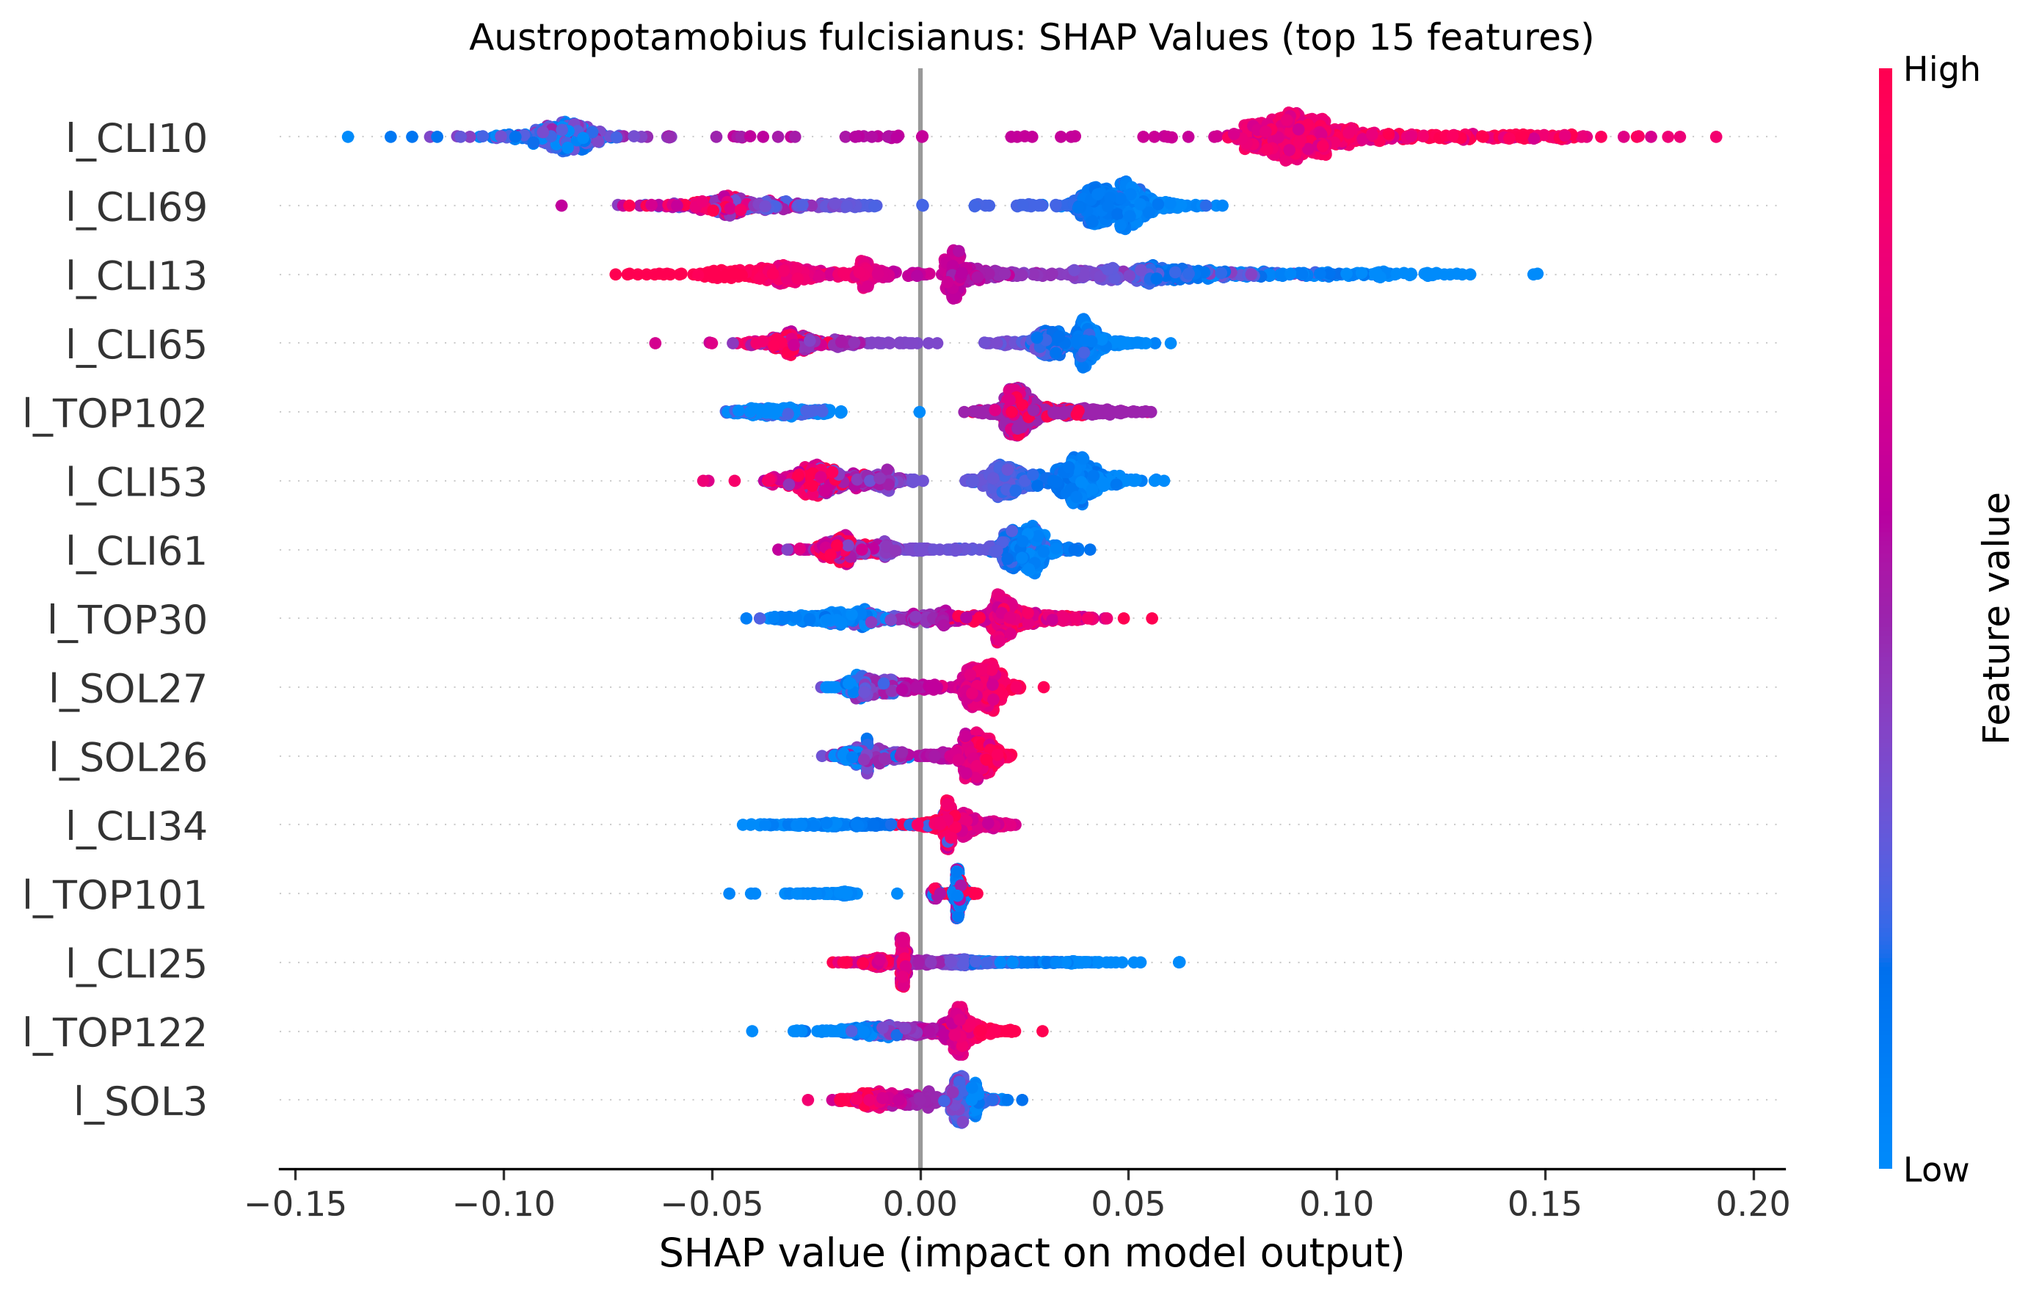
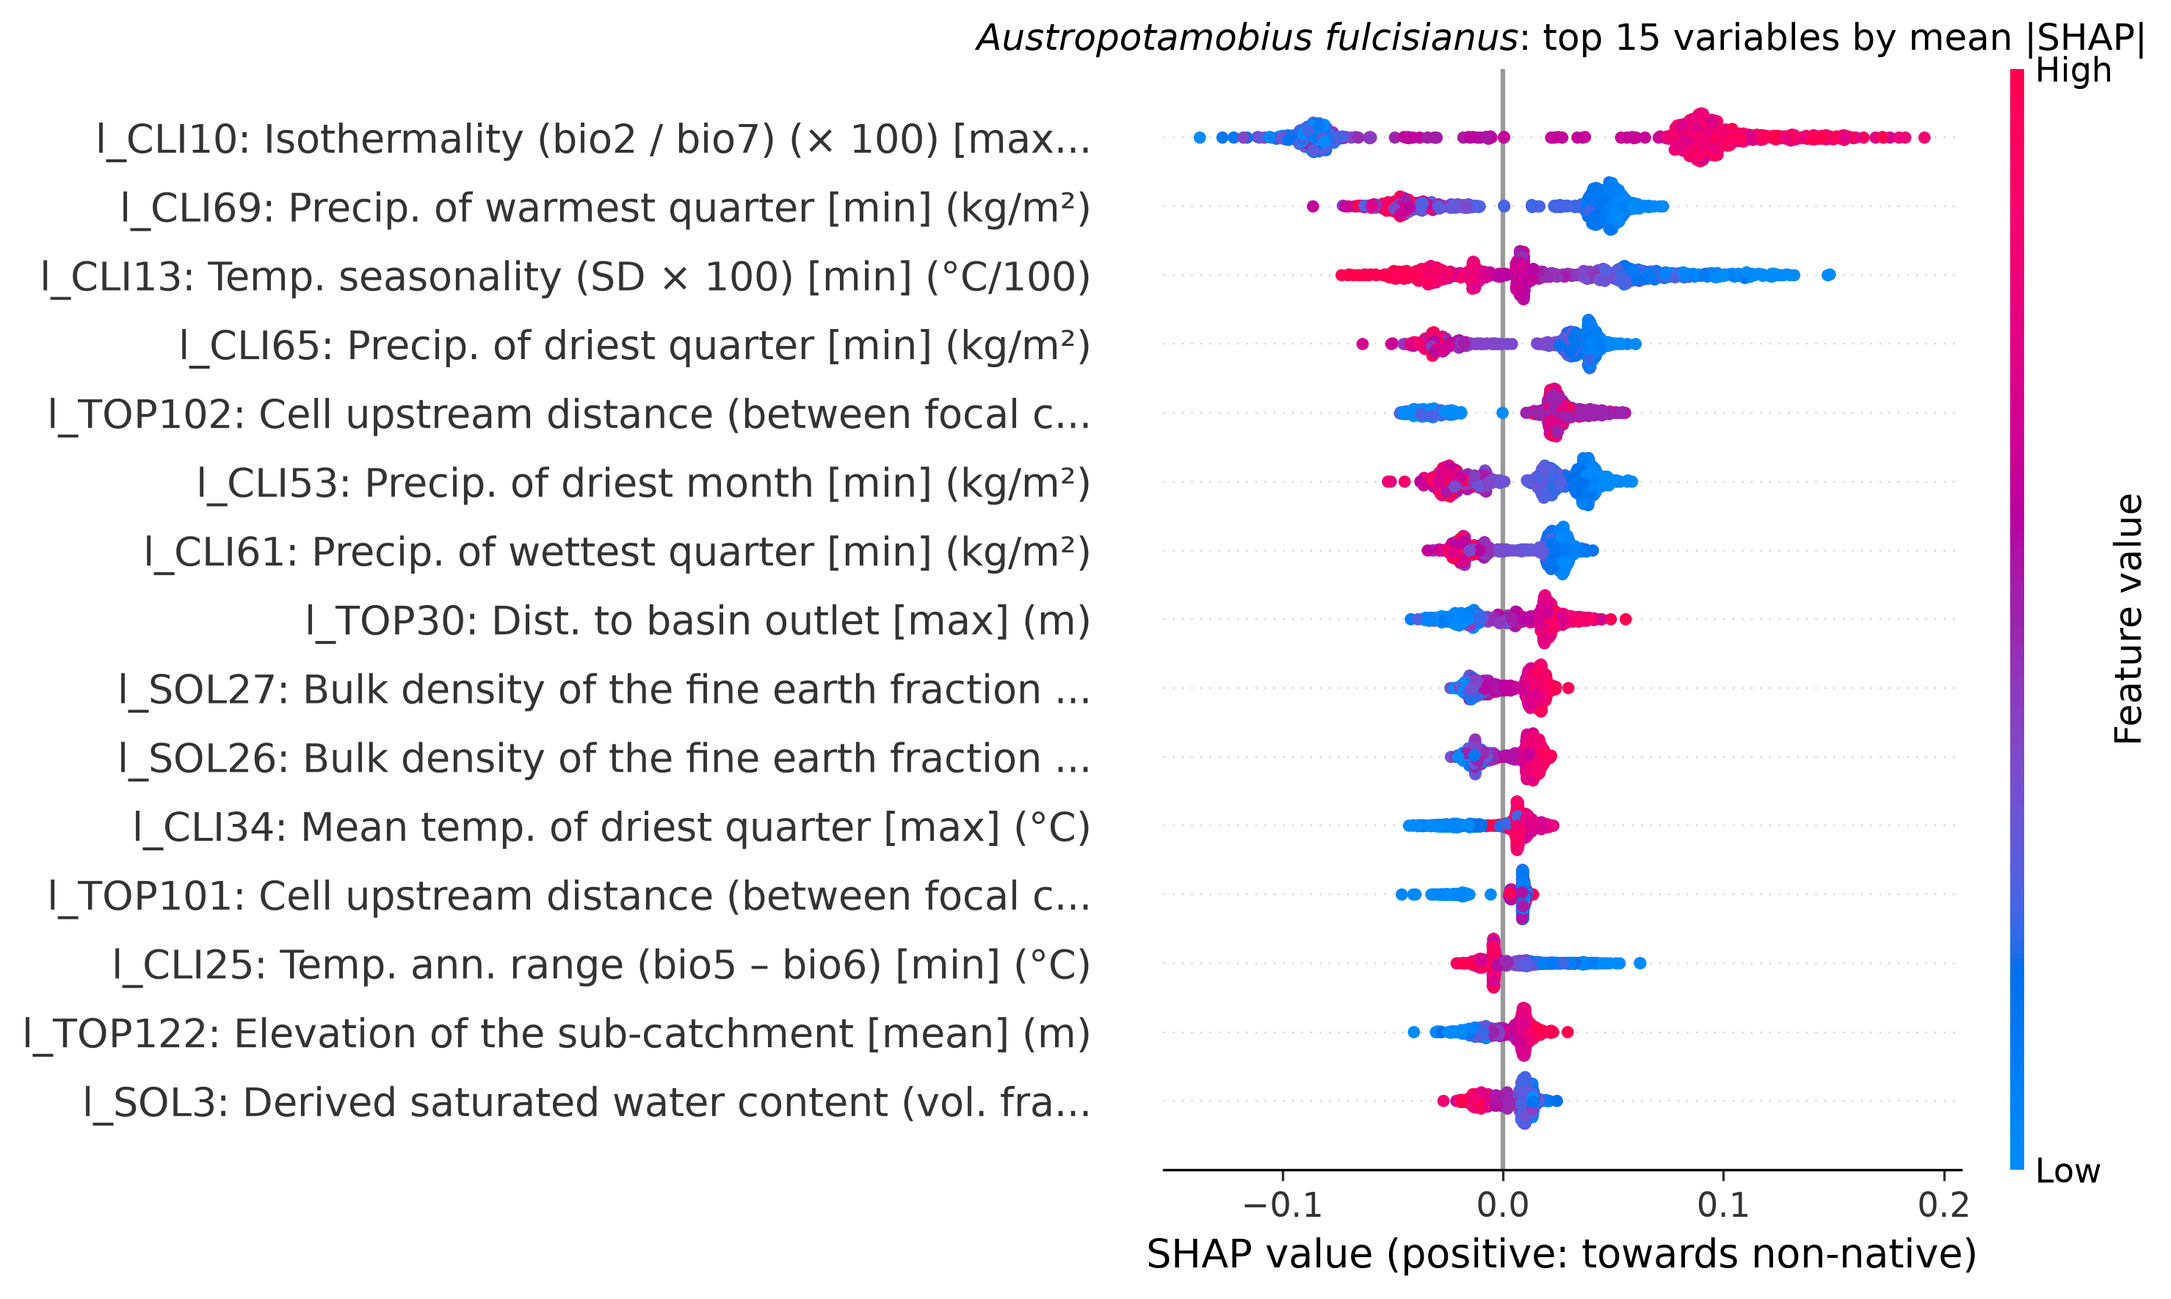
Supplement files for the revised Paper 2: Tables S1-S2, Figures S3-S5
- Table S1 (r1_TableS1.csv): per species the 20 variables with the largest
  random-forest SHAP importance, with SHAP, RF Gini and decision-tree Gini
  shares and ranks, followed by the other decision-tree variables
- Table S2 (r1_TableS2.csv): fold stability of domain-level RF Gini
  importance, mean and SD over the five stratified folds
- Figure S3: SHAP summary plots label each variable with its description and
  give the sign of the SHAP axis (towards non-native)
- Figure S4: decision-tree importance heatmap, rows with importance >= 0.005,
  domain as a colour strip, in the palette of Figure 2
- Figure S5: fold stability by domain, one PNG per species and a 3-panel
  version, in the palette of Figure 2
- The ecospat supplementary figures are renamed to the final numbering
  (S6 all variables, S7 null distributions); the README maps every table and
  figure of the revised manuscript to its file

Claude-Session: https://claude.ai/code/session_01VqvwAeGhpT3225sp3HgGFu

diff --git a/conservation/src/r1_figures.py b/conservation/src/r1_figures.py
@@ -6,6 +6,11 @@ r1_figures.py — R1 figures (items 16-18 of the revision list), 300 dpi PNG.
           permutation importance (loss of balanced accuracy when a whole domain is
           shuffled; filled = stratified CV, open = 100 km spatial blocks)
   Fig S2  top 20 decision-tree variables per species, bars coloured by domain
+  Fig S4  decision-tree Gini importance across species (heatmap; top 15 variables per
+          species with importance >= 0.005), domain shown as a colour strip
+  Fig S5  cross-validation stability of domain-level random-forest Gini importance:
+          mean +/- SD over the 5 stratified folds, one PNG per species and a 3-panel
+          version (inputs: results/tables/cv_stability/*_type_summary.csv)
 
 Domain colours are a colour-vision-deficiency-safe set (validated adjacent and all
 pairs; red/blue/green semantics of the submitted figures kept, soil moved from brown
@@ -26,6 +31,7 @@ matplotlib.use("Agg")
 import matplotlib.pyplot as plt
 import numpy as np
 import pandas as pd
+from matplotlib.colors import PowerNorm
 from matplotlib.patches import Patch
 
 from r1_common import DOMAINS, FIGURES, SHORT, SPECIES, TABLES, domain_of, domain_shares, ensure_dirs
@@ -155,7 +161,95 @@ def figS2():
     return out
 
 
+def figS4(n_top=15, min_imp=0.005):
+    glossary = load_glossary("data/raw/S2.xlsx")
+    imp = {sp: pd.read_csv(RES / f"{safe(sp)}_feature_importances.csv").set_index("variable").importance
+           for sp in SPECIES}
+    rows = set()
+    for sp, s in imp.items():
+        rows.update(s[s >= min_imp].sort_values(ascending=False).head(n_top).index)
+    m = pd.DataFrame({sp: [float(imp[sp].get(v, 0.0)) for v in rows] for sp in SPECIES}, index=list(rows))
+    m = m.loc[m.max(axis=1).sort_values(ascending=False).index]
+    fig = plt.figure(figsize=(7.6, 0.24 * len(m) + 1.2))
+    gs = fig.add_gridspec(1, 3, width_ratios=[0.035, 1, 0.05], wspace=0.04, bottom=0.07, top=0.93)
+    ax_strip, ax, cax = fig.add_subplot(gs[0]), fig.add_subplot(gs[1]), fig.add_subplot(gs[2])
+    for i, v in enumerate(m.index):
+        ax_strip.add_patch(plt.Rectangle((0, i - 0.5), 1, 1, color=DOMAIN_COLORS[domain_of(v)], linewidth=0))
+    ax_strip.set_xlim(0, 1); ax_strip.set_ylim(len(m) - 0.5, -0.5)
+    ax_strip.set_xticks([]); ax_strip.set_yticks(range(len(m)))
+    ax_strip.set_yticklabels([make_label(v, glossary, max_len=52) for v in m.index], fontsize=6.5, color=INK)
+    for s in ax_strip.spines.values():
+        s.set_visible(False)
+    ax_strip.tick_params(axis="y", length=0)
+    im = ax.imshow(m.values, cmap="Greys", norm=PowerNorm(0.5, vmin=0, vmax=1), aspect="auto")
+    for i in range(len(m)):
+        for j in range(len(SPECIES)):
+            val = m.values[i, j]
+            if val >= 0.005:
+                ax.text(j, i, f"{val:.2f}", ha="center", va="center", fontsize=6.5,
+                        color="white" if val > 0.25 else INK)
+    ax.set_xticks(range(len(SPECIES)))
+    ax.set_xticklabels([f"$\\it{{{SHORT[sp].split()[0]}}}$ $\\it{{{SHORT[sp].split()[1]}}}$" for sp in SPECIES])
+    ax.xaxis.tick_top()
+    ax.set_yticks([])
+    for s in ax.spines.values():
+        s.set_visible(False)
+    cb = fig.colorbar(im, cax=cax)
+    cb.set_label("Decision-tree Gini importance (square-root colour scale)")
+    handles = [Patch(facecolor=DOMAIN_COLORS[d], label=d) for d in DOMAINS]
+    fig.legend(handles=handles, loc="upper center", ncol=4, bbox_to_anchor=(0.55, 0.055), fontsize=7.5)
+    out = FIGURES / "FigS4_dt_importance_heatmap.png"
+    fig.savefig(out, dpi=300, bbox_inches="tight", facecolor="white")
+    plt.close(fig)
+    return out
+
+
+def figS5():
+    """Fold stability of domain-level RF Gini importance, one panel per species."""
+    data = {sp: pd.read_csv(RES / "cv_stability" / f"{safe(sp)}_type_summary.csv").set_index("type") for sp in SPECIES}
+    ymax = max(float((d.mean_pct + d.sd_pct).max()) for d in data.values())
+    ymax = 10 * np.ceil(ymax / 10 + 0.05)
+
+    def panel(ax, sp):
+        d = data[sp].reindex(DOMAINS)
+        x = np.arange(len(DOMAINS))
+        ax.bar(x, d.mean_pct, 0.62, color=[DOMAIN_COLORS[k] for k in DOMAINS], edgecolor="white", linewidth=0.8)
+        ax.errorbar(x, d.mean_pct, yerr=d.sd_pct, fmt="none", ecolor=INK, elinewidth=0.9, capsize=3)
+        for xi, (mu, sd) in enumerate(zip(d.mean_pct, d.sd_pct)):
+            ax.text(xi, mu + sd + ymax * 0.015, f"{mu:.1f} \u00b1 {sd:.1f}", ha="center", va="bottom", fontsize=7, color=INK2)
+        ax.set_xticks(x)
+        ax.set_xticklabels(DOMAINS)
+        ax.set_ylim(0, ymax)
+        ax.set_ylabel("Share of random-forest Gini importance (%)")
+        g, s = SHORT[sp].split()
+        ax.set_title(f"$\\it{{{g}}}$ $\\it{{{s}}}$", loc="left")
+        ax.yaxis.grid(True, color=GRID, linewidth=0.6); ax.set_axisbelow(True)
+
+    outs = []
+    for sp in SPECIES:
+        fig, ax = plt.subplots(figsize=(3.6, 3.0))
+        panel(ax, sp)
+        out = FIGURES / f"FigS5_type_stability_{safe(sp)}.png"
+        fig.savefig(out, dpi=300, bbox_inches="tight", facecolor="white")
+        plt.close(fig)
+        outs.append(out)
+    fig, axes = plt.subplots(1, 3, figsize=(10.5, 3.2), sharey=True)
+    for ax, sp in zip(axes, SPECIES):
+        panel(ax, sp)
+    for ax in axes[1:]:
+        ax.set_ylabel("")
+    fig.text(0.5, -0.04, "Mean \u00b1 SD over the five stratified cross-validation folds", ha="center", fontsize=7.5, color=INK2)
+    out = FIGURES / "FigS5_type_stability.png"
+    fig.savefig(out, dpi=300, bbox_inches="tight", facecolor="white")
+    plt.close(fig)
+    outs.append(out)
+    return outs
+
+
 if __name__ == "__main__":
     ensure_dirs()
     print(fig2())
     print(figS2())
+    print(figS4())
+    for o in figS5():
+        print(o)

diff --git a/conservation/src/r1_tables.py b/conservation/src/r1_tables.py
@@ -16,6 +16,13 @@ every number in Tables 2, 3 and S5 traces to one file.
                   tests (p for both alternatives), expansion, stability, unfilling
   r1_table_ecospat_sensitivity.csv  D, I and the dynamic indices for 50, 100 and 200 km
                   backgrounds and intersection 0.1 and 0
+  r1_TableS1.csv  per species, the 20 variables with the largest random-forest SHAP
+                  importance, with their SHAP, RF Gini and DT Gini importance (% of each
+                  model's total) and ranks, followed by the decision-tree variables
+                  outside that set (selection = "decision tree only")
+  r1_TableS2.csv  cross-validation fold stability: RF Gini importance by domain, mean
+                  and SD (n - 1) over the five stratified folds
+                  (from results/tables/cv_stability/*_type_summary.csv)
   r1_submitted_vs_regenerated.csv  submitted values next to the regenerated ones
 
 Run (from conservation/):  ../.venv/bin/python src/r1_tables.py
@@ -26,7 +33,8 @@ from pathlib import Path
 
 import pandas as pd
 
-from r1_common import DOMAINS, SPECIES, TABLES, domain_shares, ensure_dirs
+from r1_common import DOMAINS, SPECIES, TABLES, domain_of, domain_shares, ensure_dirs
+from variable_glossary import load_glossary, translate
 
 ECOSPAT_SETS = ["climate", "non_climate", "all"]
 FEATURE_SETS = ["all", "no_climate", "no_climate_no_cellstep", "climate_only"]
@@ -49,8 +57,52 @@ def safe(sp):
     return sp.replace(" ", "_").lower()
 
 
+def table_s1(n_top=20):
+    glossary = load_glossary("data/raw/S2.xlsx")
+    rows = []
+    for sp in SPECIES:
+        dt = pd.read_csv(RES / f"{safe(sp)}_feature_importances.csv").set_index("variable").importance
+        gi = pd.read_csv(RES / f"{safe(sp)}_rf_gini_importances.csv").set_index("variable").gini_importance
+        sh = pd.read_csv(RES / f"{safe(sp)}_rf_shap_importances.csv").set_index("variable").mean_abs_shap
+        pct = pd.DataFrame({"shap_pct": 100 * sh / sh.sum(), "rf_gini_pct": 100 * gi / gi.sum(),
+                            "dt_gini_pct": 100 * dt / dt.sum()}).fillna(0.0)
+        for col, rk in (("shap_pct", "rank_shap"), ("rf_gini_pct", "rank_rf_gini"), ("dt_gini_pct", "rank_dt_gini")):
+            pct[rk] = pct[col].rank(ascending=False, method="min").astype(int)
+        pct.loc[pct.dt_gini_pct == 0, "rank_dt_gini"] = pd.NA
+        top = pct.sort_values("shap_pct", ascending=False).head(n_top)
+        extra = pct[(pct.dt_gini_pct > 0) & ~pct.index.isin(top.index)].sort_values("dt_gini_pct", ascending=False)
+        for sel, block in (("top 20 by SHAP", top), ("decision tree only", extra)):
+            for v, r in block.iterrows():
+                rows.append({"species": sp, "selection": sel, "variable": v, "domain": domain_of(v),
+                             "description": translate(v, glossary),
+                             "shap_pct": round(r.shap_pct, 2), "rf_gini_pct": round(r.rf_gini_pct, 2),
+                             "dt_gini_pct": round(r.dt_gini_pct, 2), "rank_shap": int(r.rank_shap),
+                             "rank_rf_gini": int(r.rank_rf_gini),
+                             "rank_dt_gini": None if pd.isna(r.rank_dt_gini) else int(r.rank_dt_gini)})
+    out = pd.DataFrame(rows)
+    out["rank_dt_gini"] = out["rank_dt_gini"].astype("Int64")
+    out.to_csv(TABLES / "r1_TableS1.csv", index=False)
+    return out
+
+
+def table_s2():
+    rows = []
+    for sp in SPECIES:
+        d = pd.read_csv(RES / "cv_stability" / f"{safe(sp)}_type_summary.csv").set_index("type")
+        for dom in DOMAINS:
+            m, s = float(d.loc[dom, "mean_pct"]), float(d.loc[dom, "sd_pct"])
+            rows.append({"species": sp, "domain": dom, "mean_pct": round(m, 2), "sd_pct": round(s, 2),
+                         "mean_sd": f"{m:.1f} \u00b1 {s:.1f}"})
+    out = pd.DataFrame(rows)
+    out.to_csv(TABLES / "r1_TableS2.csv", index=False)
+    return out
+
+
 def main():
     ensure_dirs()
+    s1 = table_s1()
+    print(s1.groupby(["species", "selection"]).size())
+    print(table_s2().to_string(index=False))
     summ = pd.read_csv(TABLES / "r1_classification_summary.csv")
     cmp = pd.read_csv(TABLES / "r1_importance_domain_comparison.csv")
     eco_files = [TABLES / f"r1_ecospat_results_{s}.csv" for s in ECOSPAT_SETS]

diff --git a/conservation/src/random_forest_shap.py b/conservation/src/random_forest_shap.py
@@ -153,24 +153,32 @@ def compute_importance_by_type(importances_df, importance_col):
 def plot_shap_summary(
     shap_values, X_sample, feature_names,
     species_name, n_top=15,
-    output_dir="results/figures",
+    output_dir="results/figures", glossary=None,
 ):
-    """SHAP beeswarm plot for top features."""
+    """SHAP beeswarm plot for top features (Figure S3).
+
+    Rows are labelled "code: description" from the S2 glossary when it is given;
+    SHAP values refer to the non-native class, so positive values push a record
+    towards non-native.
+    """
     import shap
 
     out = Path(output_dir)
     out.mkdir(parents=True, exist_ok=True)
 
+    labels = [make_label(v, glossary, max_len=52) for v in feature_names] if glossary else feature_names
     fig, ax = plt.subplots(figsize=(10, max(5, n_top * 0.4)))
     shap.summary_plot(
         shap_values,
         features=X_sample,
-        feature_names=feature_names,
+        feature_names=labels,
         max_display=n_top,
         show=False,
         plot_size=None,
     )
-    plt.title(f"{species_name}: SHAP Values (top {n_top} features)", fontsize=12)
+    genus, epithet = species_name.split()[:2]
+    plt.title(f"$\\it{{{genus}}}$ $\\it{{{epithet}}}$: top {n_top} variables by mean |SHAP|", fontsize=12)
+    plt.xlabel("SHAP value (positive: towards non-native)")
     plt.tight_layout()
 
     safe_name = species_name.replace(" ", "_").lower()
@@ -341,7 +349,7 @@ def analyze_species_rf(
     figures_dir = str(Path(output_dir) / "figures")
     shap_fig = plot_shap_summary(
         shap_vals, X_sample, feature_names,
-        species_name, output_dir=figures_dir,
+        species_name, output_dir=figures_dir, glossary=glossary,
     )
     print(f"  SHAP plot saved to {shap_fig}")
 

diff --git a/conservation/README.md b/conservation/README.md
@@ -67,13 +67,13 @@ the submitted pipeline). Outputs go to `results/revision/tables/` and
 | `r1_classification.py` | `r1_classification_{metrics,summary,per_fold}.csv`, `r1_noclimate_top_variables.csv` | KM-2 (balanced accuracy, MCC, class metrics), KM-4 (models without climate, and without climate and the cell-step variables), KM-7 (grid-block spatial CV) |
 | `r1_downsampling.py` | `r1_downsampling_{replicates,summary}.csv` | KM-2 (100 balanced subsamples) |
 | `r1_permutation_importance.py` | `r1_permutation_{grouped,variable}.csv`, `r1_importance_domain_comparison.csv` | KM-3 |
-| `r1_ecospat_prepare.py`, `r1_ecospat.R`, `r1_ecospat_figure.R` | `r1_ecospat_background_summary.csv`, `r1_ecospat_results_<set>.csv`, `r1_ecospat_null_D_<set>_<species>.csv`, `r1_ecospat_versions_<set>.json` (sets: `climate`, `non_climate`, `all`); `figures/Fig3_ecospat_niche_dynamics.png`, `FigS7_ecospat_niche_dynamics_all_variables.png`, `FigS8_ecospat_null_distributions.png` | KM-5, item 19 |
+| `r1_ecospat_prepare.py`, `r1_ecospat.R`, `r1_ecospat_figure.R` | `r1_ecospat_background_summary.csv`, `r1_ecospat_results_<set>.csv`, `r1_ecospat_null_D_<set>_<species>.csv`, `r1_ecospat_versions_<set>.json` (sets: `climate`, `non_climate`, `all`); `figures/Fig3_ecospat_niche_dynamics.png`, `FigS6_ecospat_niche_dynamics_all_variables.png`, `FigS7_ecospat_null_distributions.png` | KM-5, item 19 |
 | `r1_separate_models_audit.py` | `r1_background_geography.csv`, `r1_threshold_stability_*.csv`, `r1_separate_models_geo100*.csv` | KM-6, item 11 (background limits) |
 | `r1_basin_id_audit.py` | `r1_basin_id_audit.csv` | KM-7 (why basin_id was replaced) |
 | `r1_uncertain_records.py` | `r1_uncertain_records.csv` | KM-8 |
 | `r1_status_by_country.py` | `r1_status_by_country.csv` | item 10 |
-| `r1_figures.py` | `figures/Fig2_domain_importance.png`, `figures/FigS2_top20_dt_by_domain.png` | items 16-17 |
-| `r1_tables.py` | `r1_Table2.csv`, `r1_Table3.csv`, `r1_TableS5.csv`, `r1_table_feature_sets.csv`, `r1_table_ecospat.csv`, `r1_table_ecospat_sensitivity.csv`, `r1_submitted_vs_regenerated.csv` | Tables 2, 3, S5 and the new tables |
+| `r1_figures.py` | `figures/Fig2_domain_importance.png`, `FigS2_top20_dt_by_domain.png`, `FigS4_dt_importance_heatmap.png`, `FigS5_type_stability*.png` | items 16-17, Figs. S4-S5 |
+| `r1_tables.py` | `r1_Table2.csv`, `r1_Table3.csv`, `r1_TableS1.csv`, `r1_TableS2.csv`, `r1_TableS5.csv`, `r1_table_feature_sets.csv`, `r1_table_ecospat.csv`, `r1_table_ecospat_sensitivity.csv`, `r1_submitted_vs_regenerated.csv` | Tables 2, 3, S1, S2, S5 and the new tables |
 
 Run order (from inside `conservation/`): `r1_classification.py` (then
 `--sets no_climate_no_cellstep`), `r1_permutation_importance.py`, `r1_downsampling.py`,
@@ -88,7 +88,32 @@ the World of Crayfish data policy, and are rebuilt by `r1_ecospat_prepare.py`.
 Item 18: `decision_tree.py`, `niche_overlap_metrics.py` and `pseudoabsence_sensitivity.py`
 now label the second class "non-native" in figures and rule files (outputs regenerated;
 values unchanged). Internal variable and JSON key names of the inherited pipeline still
-say "invasive".
+say "invasive". The SHAP summary plots of `random_forest_shap.py` (Fig. S3) label each
+variable with its description and state that positive SHAP values push a record towards
+non-native.
+
+### Files behind each item of the revised manuscript
+
+| Item | File |
+|---|---|
+| Table 2 | `results/revision/tables/r1_Table2.csv` |
+| Table 3 | `results/revision/tables/r1_Table3.csv` |
+| Table 5 (ecospat) | `results/revision/tables/r1_table_ecospat.csv` |
+| Figure 2 | `results/revision/figures/Fig2_domain_importance.png` |
+| Figure 3 | `results/revision/figures/Fig3_ecospat_niche_dynamics.png` |
+| Table S1 | `results/revision/tables/r1_TableS1.csv` (top 20 variables by RF SHAP, plus the other decision-tree variables) |
+| Table S2 | `results/revision/tables/r1_TableS2.csv` |
+| Tables S3-S5 | `r1_table_feature_sets.csv`, `r1_table_ecospat_sensitivity.csv`, `r1_TableS5.csv` in `results/revision/tables/` |
+| Figure S1 | `results/figures/*_decision_tree.png` |
+| Figure S2 | `results/revision/figures/FigS2_top20_dt_by_domain.png` |
+| Figure S3 | `results/figures/*_shap_summary.png` |
+| Figure S4 | `results/revision/figures/FigS4_dt_importance_heatmap.png` |
+| Figure S5 | `results/revision/figures/FigS5_type_stability*.png` |
+| Figure S6 | `results/revision/figures/FigS6_ecospat_niche_dynamics_all_variables.png` |
+| Figure S7 | `results/revision/figures/FigS7_ecospat_null_distributions.png` |
+
+Section 3.4, the former Tables S3-S4 and the former Figure S6 (separate niche models)
+were dropped in the revision; their scripts and outputs stay in the repository.
 
 ## Provenance
 
